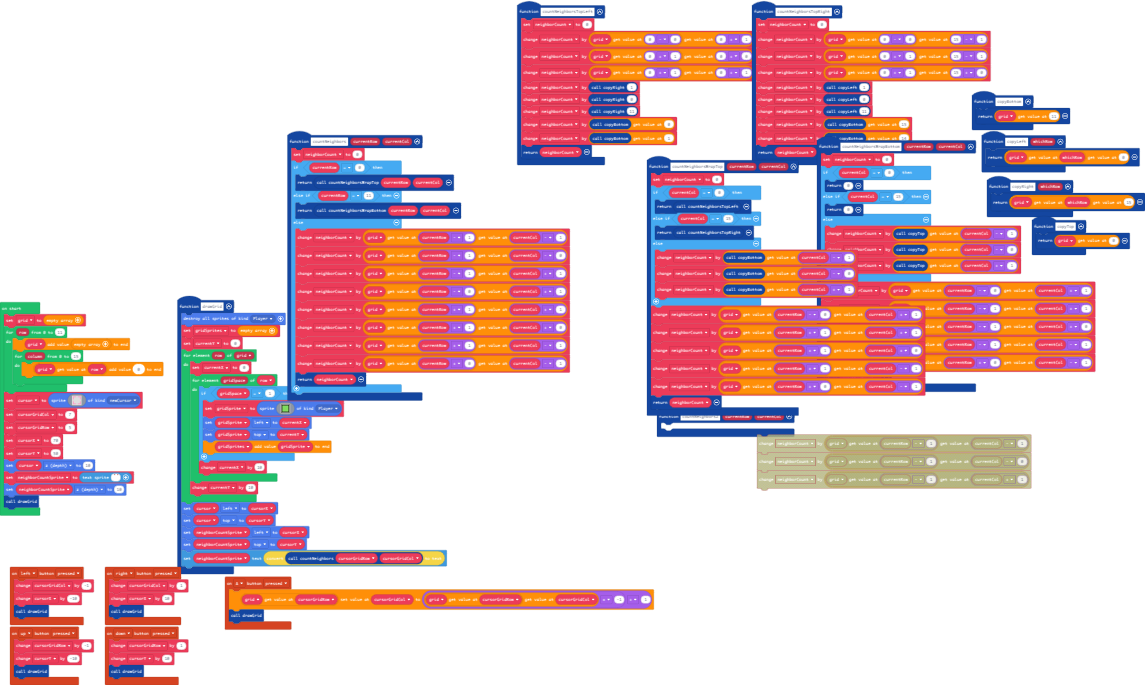
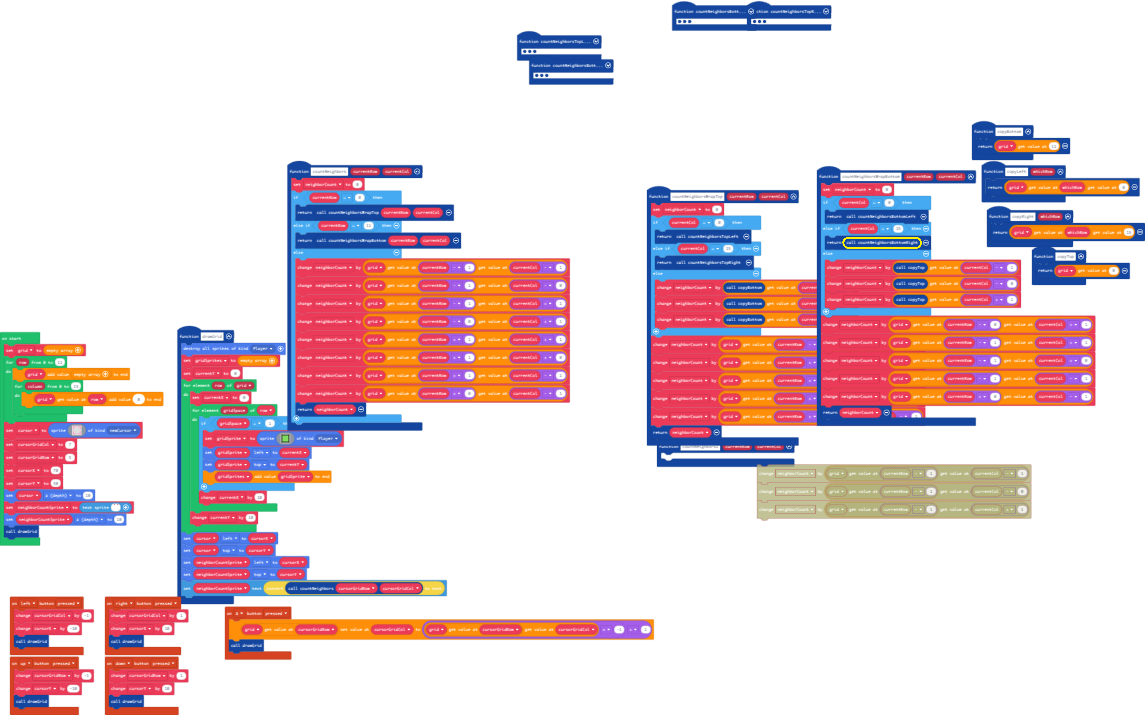
wrap bottom left and right

diff --git a/main.ts b/main.ts
@@ -7,6 +7,18 @@ controller.up.onEvent(ControllerButtonEvent.Pressed, function () {
     cursorY += -10
     drawGrid()
 })
+function countNeighborsBottomLeft () {
+    neighborCount = 0
+    neighborCount += grid[0 - 0][0 + 1]
+    neighborCount += grid[0 - 1][0 + 0]
+    neighborCount += grid[0 - 1][0 + 1]
+    neighborCount += copyRight(10)
+    neighborCount += copyRight(0)
+    neighborCount += copyRight(11)
+    neighborCount += copyTop()[0]
+    neighborCount += copyTop()[1]
+    return neighborCount
+}
 controller.A.onEvent(ControllerButtonEvent.Pressed, function () {
     grid[cursorGridRow][cursorGridCol] = grid[cursorGridRow][cursorGridCol] * -1 + 1
     drawGrid()
@@ -94,6 +106,18 @@ function countNeighborsTopLeft () {
     neighborCount += copyBottom()[1]
     return neighborCount
 }
+function countNeighborsBottomRight () {
+    neighborCount = 0
+    neighborCount += grid[11 - 0][15 - 1]
+    neighborCount += grid[11 + 1][15 - 1]
+    neighborCount += grid[11 + 1][15 + 0]
+    neighborCount += copyLeft(1)
+    neighborCount += copyLeft(0)
+    neighborCount += copyLeft(11)
+    neighborCount += copyTop()[15]
+    neighborCount += copyTop()[14]
+    return neighborCount
+}
 function countNeighbors (currentRow: number, currentCol: number) {
     neighborCount = 0
     if (currentRow == 0) {
@@ -135,9 +159,9 @@ function copyLeft (whichRow: number) {
 function countNeighborsWrapBottom (currentRow: number, currentCol: number) {
     neighborCount = 0
     if (currentCol == 0) {
-        return 0
+        return countNeighborsBottomLeft()
     } else if (currentCol == 15) {
-        return 0
+        return countNeighborsBottomRight()
     } else {
         neighborCount += copyTop()[currentCol - 1]
         neighborCount += copyTop()[currentCol - 0]
@@ -153,11 +177,11 @@ function countNeighborsWrapBottom (currentRow: number, currentCol: number) {
 function copyTop () {
     return grid[0]
 }
-let neighborCount = 0
 let gridSprite: Sprite = null
 let currentX = 0
 let currentY = 0
 let gridSprites: Sprite[] = []
+let neighborCount = 0
 let neighborCountSprite: TextSprite = null
 let cursorY = 0
 let cursorX = 0
